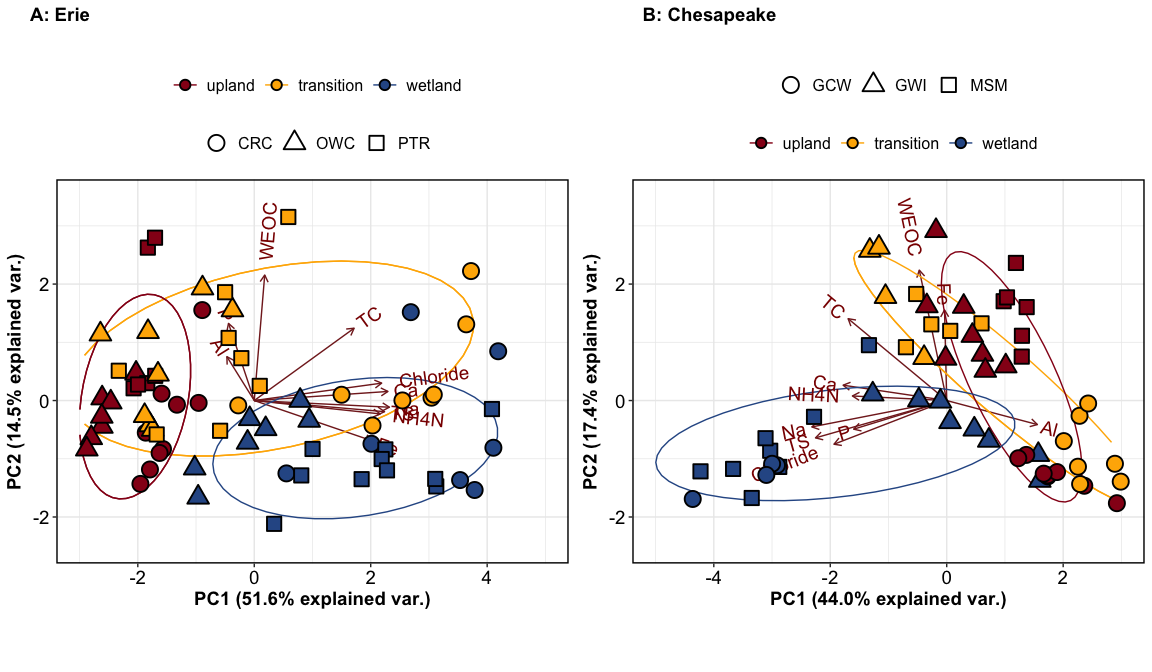
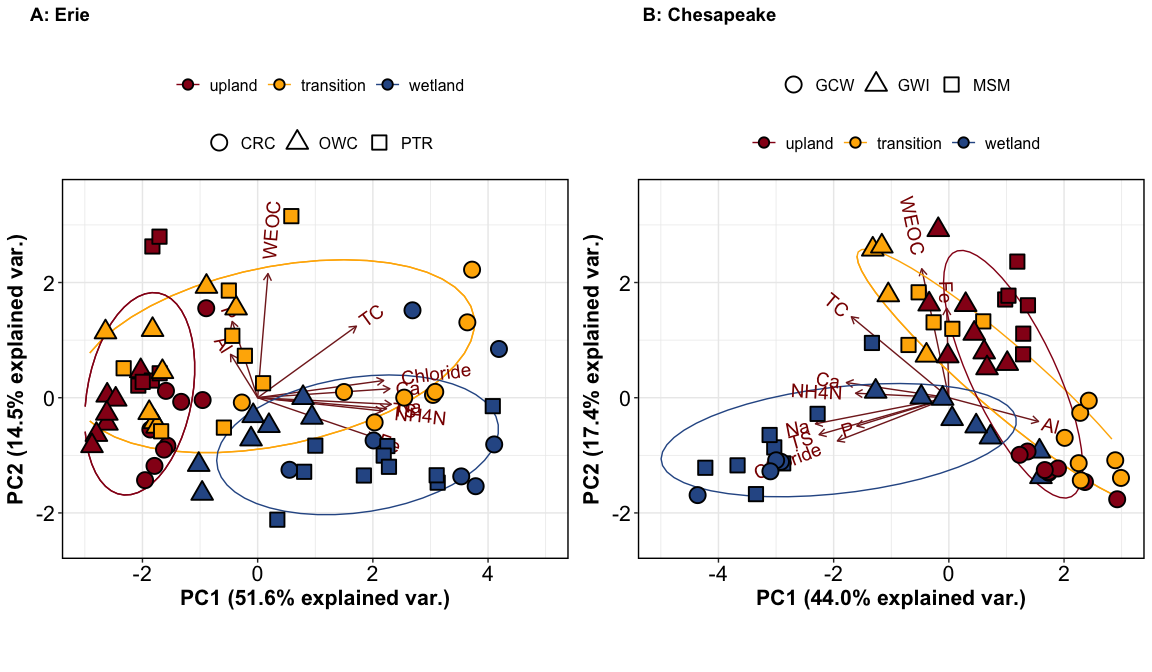
fix figure sizes

diff --git a/3-reports/manuscript_figures.md b/3-reports/manuscript_figures.md
@@ -147,7 +147,7 @@ Click to Open
 Session Info
 </summary>
 
-Date run: 2025-07-26
+Date run: 2025-08-11
 
     ## R version 4.5.0 (2025-04-11)
     ## Platform: aarch64-apple-darwin20
